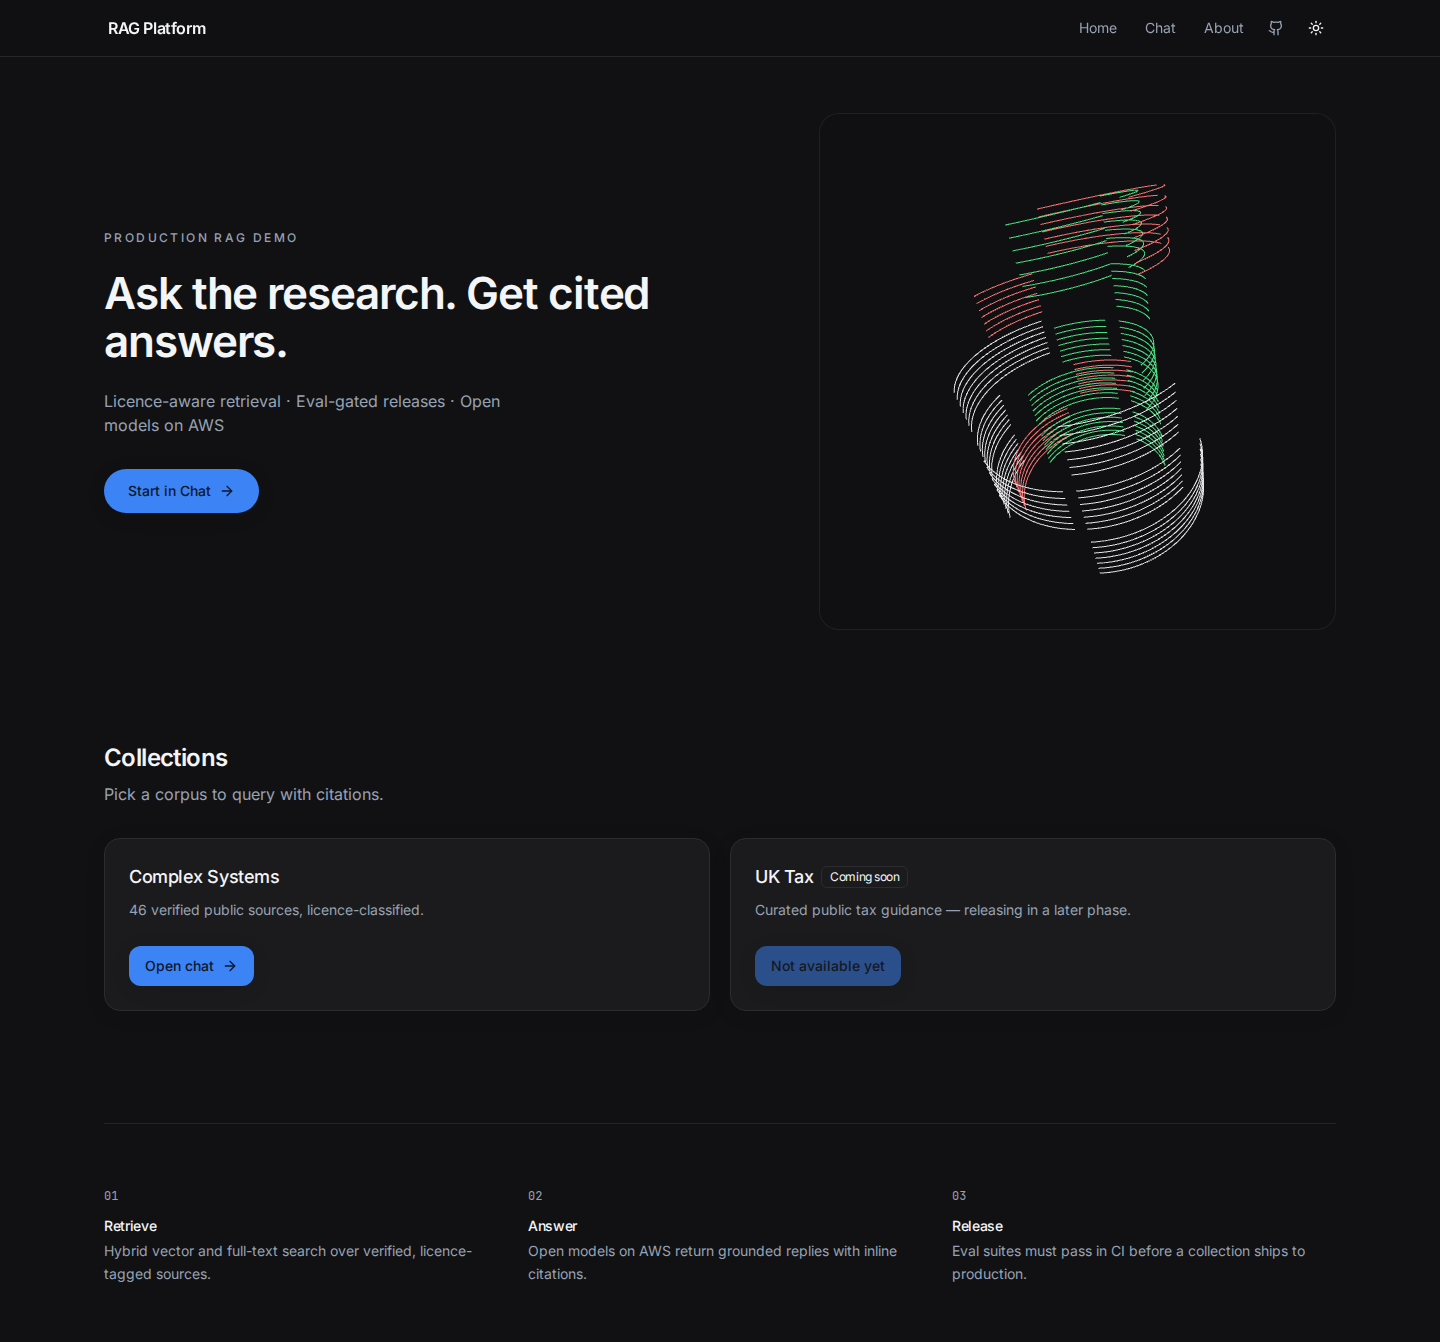
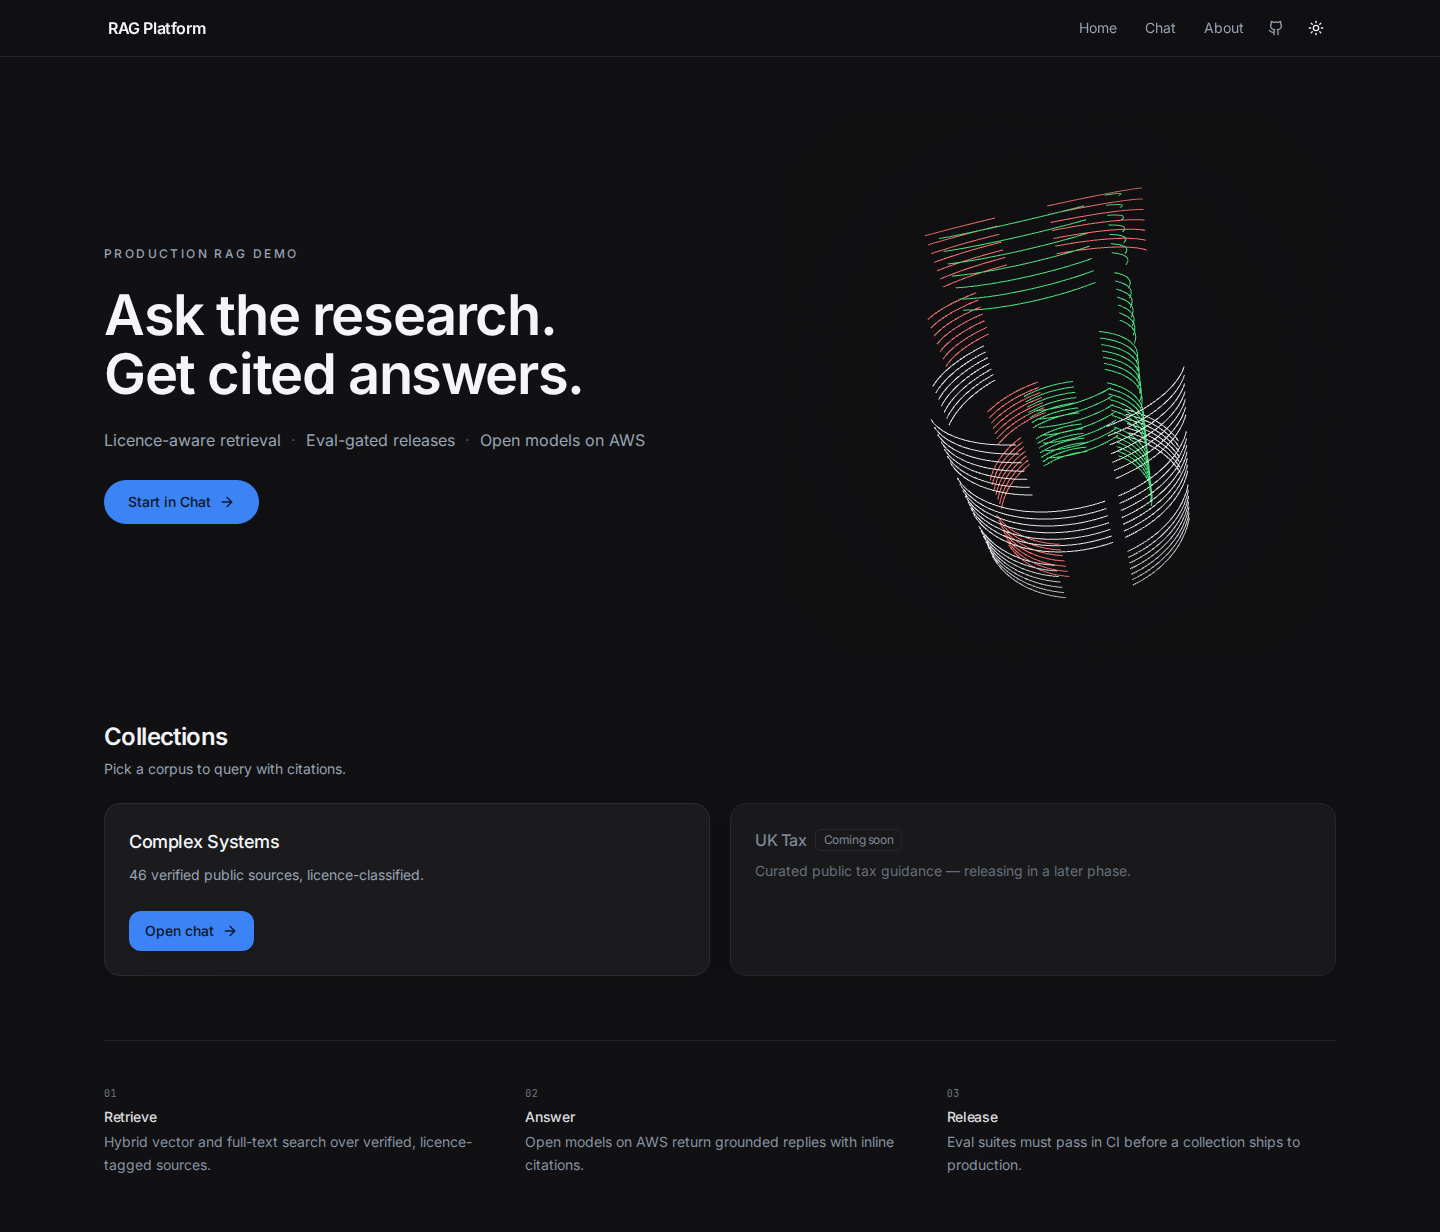
Polish home hero layout and quieter secondary sections
Frameless cylinder hero with radial edge mask, larger scale, and
tighter hero-to-collections rhythm; desktop subline on one line;
muted coming-soon collection card without CTA; quieter how-it-works strip.

diff --git a/web/src/home.css b/web/src/home.css
@@ -1,13 +1,13 @@
 .home {
-  @apply flex flex-col gap-20 md:gap-28;
+  @apply flex flex-col gap-12 md:gap-16;
 }
 
 .home-hero {
-  @apply grid items-center gap-10 md:gap-12 lg:grid-cols-[minmax(0,1fr)_minmax(280px,42%)] lg:gap-16;
+  @apply grid items-center gap-8 md:gap-10 lg:grid-cols-[minmax(0,1.05fr)_minmax(0,0.95fr)] lg:gap-12 xl:gap-14;
 }
 
 .home-hero-copy {
-  @apply flex max-w-xl flex-col gap-6;
+  @apply flex max-w-xl flex-col justify-center gap-5 lg:max-w-[34rem] lg:gap-6;
 }
 
 .home-eyebrow {
@@ -15,37 +15,65 @@
 }
 
 .home-headline {
-  @apply text-[2rem] font-semibold leading-[1.12] tracking-tight text-foreground sm:text-4xl md:text-[2.75rem] md:leading-[1.08];
+  @apply text-[2rem] font-semibold leading-[1.1] tracking-tight text-foreground sm:text-4xl lg:text-[3.25rem] lg:leading-[1.06] xl:text-[3.5rem];
 }
 
 .home-subline {
-  @apply max-w-md text-sm leading-relaxed text-muted-foreground sm:text-base;
+  @apply flex max-w-full flex-wrap items-center gap-y-1 text-sm leading-relaxed text-muted-foreground sm:text-[0.9375rem] lg:flex-nowrap lg:gap-x-0 lg:text-base;
+}
+
+.home-subline-part {
+  @apply inline-flex shrink-0 items-center;
+}
+
+.home-subline-part:not(:first-child)::before {
+  @apply mx-2 text-muted-foreground/45 content-['·'] lg:mx-2.5;
 }
 
 .home-hero-cta {
-  @apply pt-2;
+  @apply pt-1;
 }
 
 .home-hero-visual {
-  @apply relative mx-auto w-full max-w-md lg:max-w-none;
+  @apply relative flex w-full items-center justify-center lg:justify-center;
+  @apply -mx-4 min-h-[min(88vw,32rem)] sm:-mx-2 lg:mx-0 lg:min-h-[34rem] lg:-mr-6 xl:-mr-10;
 }
 
 .hero-cylinder-root {
-  @apply aspect-square w-full overflow-hidden rounded-3xl border border-border/60 bg-background;
-  min-height: min(72vw, 420px);
+  @apply aspect-square w-[min(132%,34rem)] max-w-none shrink-0 bg-transparent;
+  min-height: min(92vw, 34rem);
+  margin-inline: auto;
+  -webkit-mask-image: radial-gradient(
+    ellipse 74% 74% at 50% 50%,
+    #000 42%,
+    rgb(0 0 0 / 0.55) 62%,
+    transparent 86%
+  );
+  mask-image: radial-gradient(
+    ellipse 74% 74% at 50% 50%,
+    #000 42%,
+    rgb(0 0 0 / 0.55) 62%,
+    transparent 86%
+  );
 }
 
 .hero-cylinder-root--placeholder {
-  @apply animate-pulse bg-muted/40;
+  @apply animate-pulse opacity-40;
+  background: radial-gradient(circle at 50% 50%, hsl(var(--muted) / 0.35), transparent 70%);
 }
 
 .hero-cylinder-root[data-state="fallback"] .hero-cylinder-fallback,
 .hero-cylinder-root canvas {
   @apply h-full w-full;
+  background: transparent !important;
+}
+
+.home-collections {
+  @apply pt-0;
 }
 
 .home-section-header {
-  @apply mb-8 flex flex-col gap-2;
+  @apply mb-6 flex flex-col gap-1.5;
 }
 
 .home-section-title {
@@ -53,7 +81,7 @@
 }
 
 .home-section-lead {
-  @apply text-sm text-muted-foreground sm:text-base;
+  @apply text-sm text-muted-foreground;
 }
 
 .home-collections-grid {
@@ -68,18 +96,38 @@
   @apply border-border bg-card;
 }
 
+.home-collection-card--soon {
+  @apply border-border/50 bg-card/30 opacity-80 shadow-none;
+}
+
+.home-collection-card--soon .home-collection-soon-title {
+  @apply text-base font-medium text-muted-foreground;
+}
+
 .home-how {
-  @apply border-t border-border/70 pt-12 md:pt-16;
+  @apply border-t border-border/60 pt-10 md:pt-12;
 }
 
 .home-how-list {
-  @apply grid gap-8 sm:grid-cols-3 sm:gap-10;
+  @apply grid gap-8 sm:grid-cols-3 sm:gap-6 md:gap-8;
 }
 
 .home-how-item {
-  @apply flex gap-4 sm:flex-col sm:gap-3;
+  @apply flex items-baseline gap-2.5 sm:flex-col sm:items-start sm:gap-2;
+}
+
+.home-how-copy {
+  @apply max-w-[45ch] space-y-1;
 }
 
 .home-how-index {
-  @apply font-mono text-xs tabular-nums text-muted-foreground;
+  @apply shrink-0 font-mono text-[0.625rem] font-normal leading-none tabular-nums tracking-wider text-muted-foreground/70;
+}
+
+.home-how-title {
+  @apply text-sm font-medium tracking-tight text-foreground/90;
+}
+
+.home-how-body {
+  @apply text-sm leading-relaxed text-muted-foreground/90;
 }

diff --git a/web/src/components/home/CollectionGrid.tsx b/web/src/components/home/CollectionGrid.tsx
@@ -5,6 +5,7 @@ import { Badge } from "../ui/badge";
 import { Button } from "../ui/button";
 import { Card, CardContent, CardDescription, CardHeader, CardTitle } from "../ui/card";
 import { Skeleton } from "../ui/skeleton";
+import { cn } from "../../lib/utils";
 
 export type Collection = {
   id: string;
@@ -51,35 +52,39 @@ export function CollectionGrid() {
         {collections?.map((c) => (
           <Card
             key={c.id}
-            className={
-              c.enabled ? "home-collection-card home-collection-card--active" : "home-collection-card"
-            }
+            className={cn(
+              "home-collection-card",
+              c.enabled ? "home-collection-card--active" : "home-collection-card--soon",
+            )}
           >
-            <CardHeader className="space-y-2">
-              <CardTitle className="flex flex-wrap items-center gap-2 text-lg font-medium tracking-tight">
+            <CardHeader className={cn("space-y-2", !c.enabled && "pb-6")}>
+              <CardTitle
+                className={cn(
+                  "flex flex-wrap items-center gap-2 text-lg font-medium tracking-tight",
+                  !c.enabled && "home-collection-soon-title",
+                )}
+              >
                 {c.label}
                 {!c.enabled && (
-                  <Badge variant="outline" className="font-normal">
+                  <Badge variant="outline" className="font-normal text-muted-foreground">
                     Coming soon
                   </Badge>
                 )}
               </CardTitle>
-              <CardDescription className="text-sm leading-relaxed">
+              <CardDescription className={cn("text-sm leading-relaxed", !c.enabled && "text-muted-foreground/80")}>
                 {c.enabled
                   ? `${c.source_count ?? "46"} verified public sources, licence-classified.`
                   : "Curated public tax guidance — releasing in a later phase."}
               </CardDescription>
             </CardHeader>
-            <CardContent className="pt-0">
-              <Button
-                className="w-full sm:w-auto"
-                disabled={!c.enabled}
-                onClick={() => navigate(`/chat/${c.id}`)}
-              >
-                {c.enabled ? "Open chat" : "Not available yet"}
-                {c.enabled && <ArrowRight className="h-4 w-4" aria-hidden="true" />}
-              </Button>
-            </CardContent>
+            {c.enabled && (
+              <CardContent className="pt-0">
+                <Button className="w-full sm:w-auto" onClick={() => navigate(`/chat/${c.id}`)}>
+                  Open chat
+                  <ArrowRight className="h-4 w-4" aria-hidden="true" />
+                </Button>
+              </CardContent>
+            )}
           </Card>
         ))}
       </div>

diff --git a/web/src/components/home/cylinder/mountHero.ts b/web/src/components/home/cylinder/mountHero.ts
@@ -70,7 +70,7 @@ export function mountHero(root: HTMLElement, theme: HeroTheme): () => void {
     scene.background = new Color(bg);
     renderer.setClearColor(bg, 1);
     const canvas = renderer.domElement;
-    canvas.style.background = fallbackBackground(theme);
+    canvas.style.background = "transparent";
     for (const binding of bindings) {
       binding.material.color.setHex(lineColorForArc(theme, binding.arcColor));
     }
@@ -209,7 +209,7 @@ export function mountHero(root: HTMLElement, theme: HeroTheme): () => void {
     canvas.style.width = "100%";
     canvas.style.height = "100%";
     canvas.style.display = "block";
-    canvas.style.background = fallbackBackground(theme);
+    canvas.style.background = "transparent";
     root.replaceChildren(canvas);
     resize();
 

diff --git a/web/src/components/home/HowItWorks.tsx b/web/src/components/home/HowItWorks.tsx
@@ -25,9 +25,9 @@ export function HowItWorks() {
             <span className="home-how-index" aria-hidden="true">
               {String(index + 1).padStart(2, "0")}
             </span>
-            <div className="space-y-1">
-              <h3 className="text-sm font-medium tracking-tight text-foreground">{step.title}</h3>
-              <p className="text-sm leading-relaxed text-muted-foreground">{step.body}</p>
+            <div className="home-how-copy">
+              <h3 className="home-how-title">{step.title}</h3>
+              <p className="home-how-body">{step.body}</p>
             </div>
           </li>
         ))}

diff --git a/web/src/pages/Home.tsx b/web/src/pages/Home.tsx
@@ -16,7 +16,9 @@ export default function Home() {
             Ask the research. Get cited answers.
           </h1>
           <p className="home-subline">
-            Licence-aware retrieval · Eval-gated releases · Open models on AWS
+            <span className="home-subline-part">Licence-aware retrieval</span>
+            <span className="home-subline-part">Eval-gated releases</span>
+            <span className="home-subline-part">Open models on AWS</span>
           </p>
           <div className="home-hero-cta">
             <Button asChild size="lg" className="rounded-full px-6">
